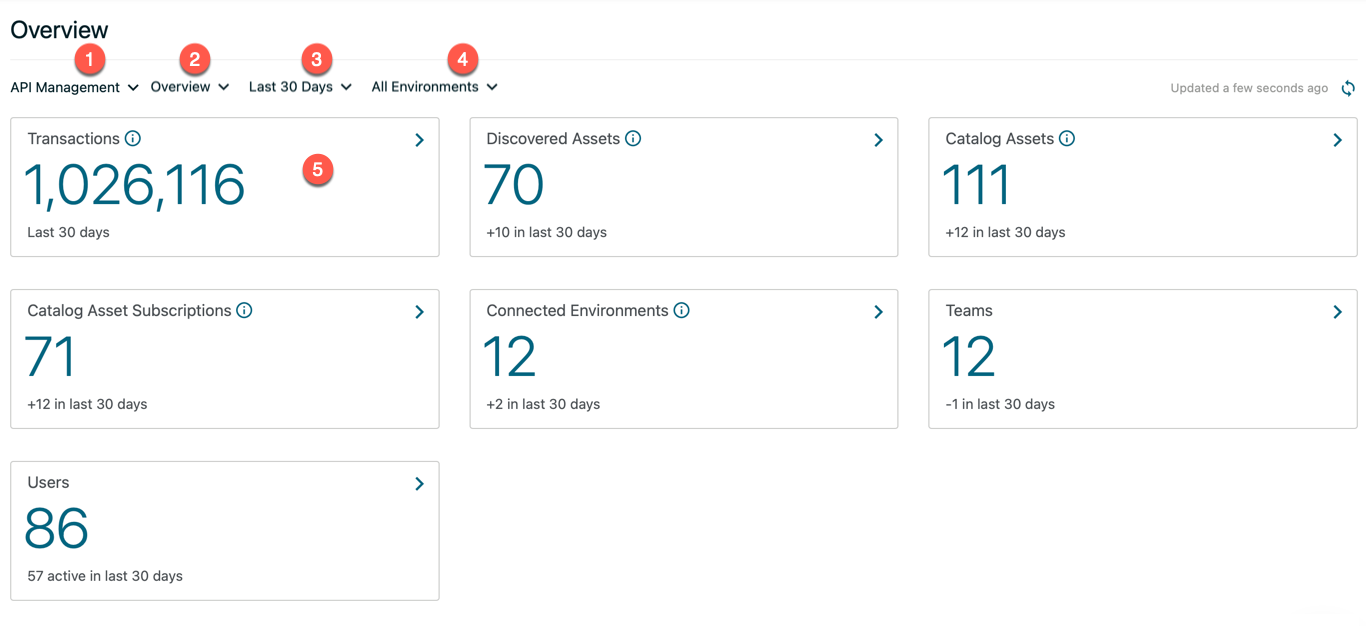
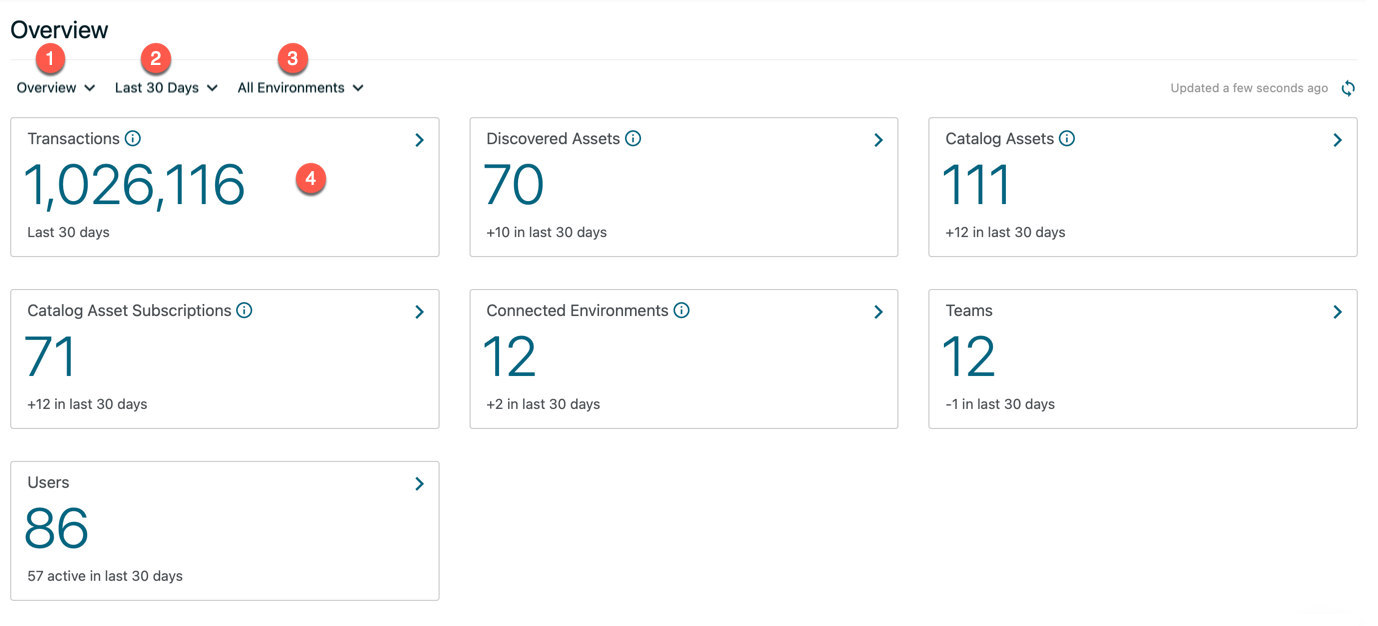
removed metrics for appdev, mobile backend services, and runtime services and upated screen shot to remove product line selector

diff --git a/content/en/docs/management_guide/managing_applications/viewing_metrics.md b/content/en/docs/management_guide/managing_applications/viewing_metrics.md
@@ -8,22 +8,14 @@ Click **Overview** from the platform home page. The **Overview** view appears. T
 
 ## Overview
 
-Metrics are available for the following product lines on the Overview view:
-
-{{% alert title="Note" color="primary" %}}Mobile Backend Services and Runtime Services are deprecated and will be discontinued effective September 1, 2022.{{% /alert %}}
-
-* API Management
-* Application Development
-* Mobile Backend Services
-* Runtime Services
+Metrics are available for the API Management on the Overview view.
 
 View metrics by doing the following:
 
-1. Use the product line selector menu to view metrics for a different product line.
-2. Use the metrics selector to view details of another metric for that product line.
-3. Use the time interval selector to filter the displayed metrics by time. For information on selecting a time interval or setting a custom time interval, refer to the **Data Filter** section of [Viewing Analytics](/docs/management_guide/managing_applications/viewing_analytics/).
-4. Use the environment selector to filter the displayed metrics by environment.
-5. Select a metric to open a details page for that metric.
+1. Use the metrics selector to view details of another metric for that product line.
+2. Use the time interval selector to filter the displayed metrics by time. For information on selecting a time interval or setting a custom time interval, refer to the **Data Filter** section of [Viewing Analytics](/docs/management_guide/managing_applications/viewing_analytics/).
+3. Use the environment selector to filter the displayed metrics by environment.
+4. Select a metric to open a details page for that metric.
     ![Metrics page](/Images/all_metrics.png)
 
 View metrics details by doing the following:
@@ -54,45 +46,3 @@ The API Management metrics comprise:
 * **Catalog Assets** – Total number of Catalog Assets events by event type during the provided time range.
 * **Catalog Asset Subscriptions** – Total number of Catalog Asset subscriptions during the provided time range.
 * **Connected environments** – Total number of Central Environment events by event type during the provided time range.
-
-## Application Development metrics
-
-On the Overview page, select **Application Development** from the product line selector.
-
-The Application Development metrics comprise the following metrics overview and its details when selected:
-
-* **Active Sessions** – Number of users in your applications at the moment.
-* **Sessions** – Total number of user sessions for your applications during the provided time range. Filter metric details by application, platform, or geographic location for the selected time interval and environment.
-* **Average Session Length** – Average length of use of your applications during the provided time range. Filter metric details by application or platform for the selected time interval and environment.
-* **Application Installs** – Total number of installs of your applications during the provided time range. Filter metric details by application, platform, or geographic location for the selected time interval and environment.
-* **Application Updates** - Total updates of your applications during the provided time range. Filter metric details by application, platform, or geographic location for the selected time interval and environment.
-* **Average Per-minute Unique Devices** – Average per-minute unique devices using your applications during the provided time range. Filter metric details by the time interval and environment.
-* **Crashes** - Displays detailed crash information metrics. Filter metric details by error, application, or platform for the selected time interval, environments, crash types (Crashes or Errors) and crash status (All Crashes, Pending, Resolved, or Unresolved).
-
-    Use the Search to filter results by username.
-
-    ![Application Development metrics](/Images/crashes.png)
-
-* **Events** – Total number of events generated by your applications during the provided time range. Filter metric details for event occurrences by application or event name for the selected time interval and environment.
-* **Apps** – Total number of all applications in the organization.
-
-## Mobile Backend Services metrics
-
-On the Overview page, select **Mobile Backend Services** from the product line selector.
-
-The Mobile Backend Services metrics comprise:
-
-* **Events** – Total number of events generated by your applications during the provided time range. Filter event occurrences by application or event name for the selected time interval and environment.
-* **Mobile Backend Services Requests** – The total number of Mobile Backend Services requests made during the provided time range. Filter detailed metrics for the Mobile Backend Services requests by application or application type for the selected time interval and environment.
-* **Push Notifications** – Total number of push notifications sent during the provided time range. View detailed metrics for the selected time and environment.
-* **Mobile Backend Services Datasources** – The total number of standalone Mobile Backend Services datasources (not created with a client application) in the organization.
-
-## Runtime Services metrics
-
-On the Overview page, select **Runtime Services** from the product line selector.
-
-The Runtime Services metrics comprise:
-
-* **Events** – Total number of events generated by your applications during the provided time range. Filter event occurrences by application or event name for the selected time interval and environment.
-* **Runtime Services Requests** – Total number of Runtime Services requests made during the provided time range. Metrics details are for Runtime Services requests for the selected time interval.
-* **Runtime Service Apps** – Total number of Runtime Service apps in the organization.
